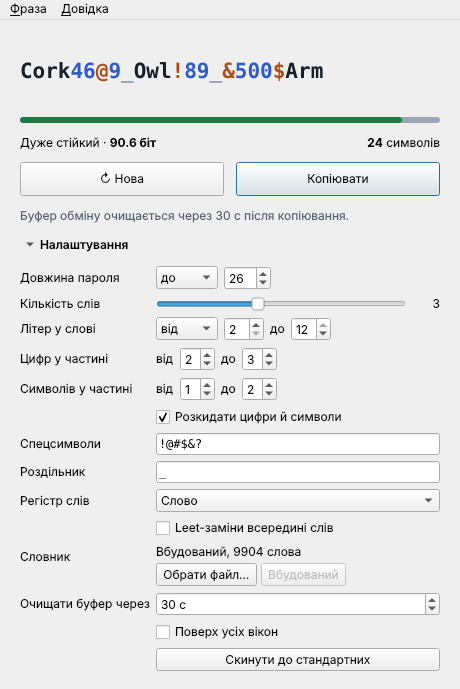
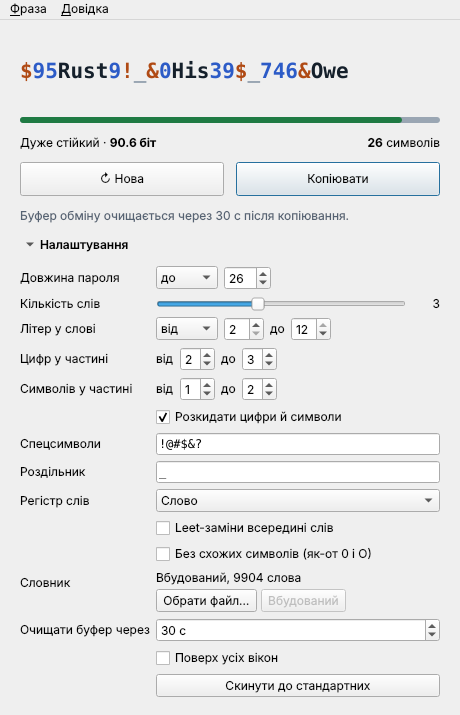
Add "avoid similar characters" option
Config.avoid_similar removes digits 0 and 1, the symbol |, and the leet
substitutions o->0 and i->1, and never shows a capital I where a
lowercase l can appear: words starting with "i" are skipped in
Capitalize mode and Random case never capitalizes an "i". O, o and l
stay, since nothing they could be confused with remains, so the
dictionary barely shrinks. Spelling counts account for the restricted
capital positions, keeping entropy_bits() exact (about -3 bits by
default). A separator containing look-alikes is rejected.

GUI: "Без схожих символів (як-от 0 і O)" checkbox. CLI: --no-similar.
Docs, screenshots and changelog updated; bump to 1.4.0.

diff --git a/src/passgen/core.py b/src/passgen/core.py
@@ -58,6 +58,19 @@ class Case(str, Enum):
 # Заміни взаємно однозначні, тому різні варіанти слова дають різні рядки.
 LEET = {"a": "@", "e": "3", "i": "1", "o": "0", "s": "$", "t": "7"}
 
+# Схожі символи: 0 / O / o та 1 / l / I / |. У режимі avoid_similar вилучаються цифри 0 і 1,
+# символ | і leet-заміни на них, а велика I не з'являється поруч із малою l — тоді жодна
+# пара з цих груп не може зустрітися в паролі одночасно.
+SIMILAR_DIGITS = "01"
+SIMILAR_SYMBOLS = "|"
+SIMILAR_ALL = "0Oo1lI|"
+
+
+def leet_map(avoid_similar: bool) -> dict[str, str]:
+    if not avoid_similar:
+        return LEET
+    return {k: v for k, v in LEET.items() if v not in SIMILAR_DIGITS}
+
 
 @dataclass(frozen=True)
 class Config:
@@ -83,6 +96,8 @@ class Config:
     scatter: bool = True
     # True: внутрішні літери з LEET незалежно, з імовірністю ½, замінюються знаками
     leet: bool = False
+    # True: без схожих символів (0 і O, 1 і l, I і l, |) — див. SIMILAR_ALL
+    avoid_similar: bool = False
 
 
 @dataclass(frozen=True)
@@ -212,23 +227,33 @@ def validate(config: Config) -> None:
         raise ConfigError(f"Роздільник може мати не більше {SEPARATOR_MAX} символів.")
     if any(not ch.isprintable() or ch.isspace() for ch in config.separator):
         raise ConfigError("Роздільник не може містити пробіли чи службові символи.")
+    if config.avoid_similar and set(config.separator) & set(SIMILAR_ALL):
+        raise ConfigError(
+            f"Роздільник містить схожі символи ({' '.join(SIMILAR_ALL)}). "
+            "Виберіть інший роздільник або вимкніть «Без схожих символів»."
+        )
 
 
-def leet_positions(word: str) -> list[int]:
-    """Позиції внутрішніх літер слова, які можна замінити (див. LEET)."""
-    return [i for i in range(1, len(word) - 1) if word[i] in LEET]
+def leet_positions(word: str, mapping: dict[str, str] = LEET) -> list[int]:
+    """Позиції внутрішніх літер слова, які можна замінити."""
+    return [i for i in range(1, len(word) - 1) if word[i] in mapping]
 
 
-def spellings(word: str, case: Case, leet: bool) -> int:
+def capital_positions(word: str, avoid_similar: bool = False) -> list[int]:
+    """Де може стояти велика літера в режимі RANDOM (без «I», якщо уникаємо схожих)."""
+    return [i for i, c in enumerate(word) if not (avoid_similar and c == "i")]
+
+
+def spellings(word: str, case: Case, leet: bool, avoid_similar: bool = False) -> int:
     """Скільки різних написань дає слово з цим регістром і leet-заміною.
 
     Велика літера (у режимі RANDOM) не замінюється, тож якщо вона стоїть на місці,
     придатному для заміни, варіантів leet на один біт менше.
     """
-    m = len(leet_positions(word)) if leet else 0
+    subs = leet_positions(word, leet_map(avoid_similar)) if leet else []
     if case is Case.RANDOM:
-        return (len(word) - m) * 2**m + m * 2 ** max(m - 1, 0)
-    return 2**m
+        return sum(2 ** (len(subs) - (p in subs)) for p in capital_positions(word, avoid_similar))
+    return 2 ** len(subs)
 
 
 def arrangements(nd: int, ns: int, scatter: bool) -> int:
@@ -258,12 +283,24 @@ class Generator:
         validate(config)
         self._randbelow = randbelow
         self._symbols = unique_symbols(config.symbol_set)
+        self._digits = DIGITS
+        self._leet = leet_map(config.avoid_similar)
+        if config.avoid_similar:
+            self._digits = "".join(d for d in DIGITS if d not in SIMILAR_DIGITS)
+            self._symbols = "".join(c for c in self._symbols if c not in SIMILAR_SYMBOLS)
+            if config.symbols_max > 0 and not self._symbols:
+                raise ConfigError(
+                    "Без схожих символів набір спецсимволів порожній. Додайте інші символи."
+                )
 
         words = builtin_words() if words is None else normalize(words)
         if not words:
             raise ConfigError("Словник порожній.")
         self.wordlist_size = len(words)
         words = tuple(w for w in words if config.word_len_min <= len(w) <= config.word_len_max)
+        if config.avoid_similar and config.case is Case.CAPITALIZE:
+            # «Ivy» поруч із малою «l» в інших словах — саме та плутанина I/l
+            words = tuple(w for w in words if w[0] != "i")
         if not words:
             raise ConfigError(f"У словнику немає слів довжиною {word_len_text(config)}.")
         self.word_counts = (
@@ -288,7 +325,7 @@ class Generator:
         # кожне слово рахується стільки разів, скільки має різних написань,
         # і вибирається з такою ж вагою — тож усі написання рівноймовірні
         self._spellings = {
-            n: [spellings(w, config.case, config.leet) for w in ws]
+            n: [spellings(w, config.case, config.leet, config.avoid_similar) for w in ws]
             for n, ws in self._by_len.items()
         }
 
@@ -297,7 +334,9 @@ class Generator:
         for n in self._by_len:
             for nd in range(config.digits_min, config.digits_max + 1):
                 for ns in range(config.symbols_min, config.symbols_max + 1):
-                    count = sum(self._spellings[n]) * len(DIGITS) ** nd * len(self._symbols) ** ns
+                    count = (
+                        sum(self._spellings[n]) * len(self._digits) ** nd * len(self._symbols) ** ns
+                    )
                     if count == 0:
                         continue
                     orders = arrangements(nd, ns, config.scatter)
@@ -398,7 +437,7 @@ class Generator:
         )
         word = self._weighted_choice(list(zip(self._by_len[n], self._spellings[n], strict=True)))
         written = self._spell(word)
-        digits = [self._choice(DIGITS) for _ in range(nd)]
+        digits = [self._choice(self._digits) for _ in range(nd)]
         symbols = [self._choice(self._symbols) for _ in range(ns)]
         if self.config.scatter:
             # кожна цифра й символ — окремий елемент; рівномірна перестановка всіх
@@ -417,17 +456,17 @@ class Generator:
     def _spell(self, word: str) -> str:
         """Рівномірно вибране написання слова серед spellings(word) варіантів."""
         cfg = self.config
-        subs = leet_positions(word) if cfg.leet else []
+        subs = leet_positions(word, self._leet) if cfg.leet else []
         chars = list(cfg.case.apply(word))
         if cfg.case is Case.RANDOM:
             # позиція великої літери з вагою 2^(кількість решти замін)
-            weights = [2 ** (len(subs) - (i in subs)) for i in range(len(word))]
-            cap = self._weighted_choice(list(zip(range(len(word)), weights, strict=True)))
+            caps = capital_positions(word, cfg.avoid_similar)
+            cap = self._weighted_choice([(i, 2 ** (len(subs) - (i in subs))) for i in caps])
             chars[cap] = chars[cap].upper()
             subs = [i for i in subs if i != cap]
         for i in subs:
             if self._randbelow(2):
-                chars[i] = LEET[word[i]]
+                chars[i] = self._leet[word[i]]
         return "".join(chars)
 
     def generate(self) -> Passphrase:

diff --git a/tests/test_core.py b/tests/test_core.py
@@ -544,3 +544,85 @@ def test_random_case_and_leet_add_entropy():
     base = Generator().entropy_bits()
     both = Generator(Config(case=Case.RANDOM, leet=True)).entropy_bits()
     assert both - base > 6
+
+
+# ---------- без схожих символів ----------
+
+
+def no_similar(text):
+    return not set(text) & set("01|") and not ("I" in text and "l" in text)
+
+
+@pytest.mark.parametrize("case", list(Case))
+@pytest.mark.parametrize("leet", [False, True])
+def test_avoid_similar_never_mixes_lookalikes(case, leet):
+    cfg = Config(case=case, leet=leet, avoid_similar=True, symbol_set="!@#$|", max_len=40)
+    gen = Generator(cfg, randbelow=seeded(31))
+    for _ in range(300):
+        text = gen.generate().text
+        assert no_similar(text), text
+
+
+def test_without_option_lookalikes_do_appear():
+    gen = Generator(Config(max_len=40), randbelow=seeded(32))
+    texts = "".join(gen.generate().text for _ in range(300))
+    assert "0" in texts and "1" in texts
+
+
+def test_avoid_similar_spellings():
+    from passgen.core import spellings
+
+    # «silo»: внутрішні i, l; leet i→1 вилучено, велика не на «i» → s, l, o
+    assert spellings("silo", Case.RANDOM, leet=True, avoid_similar=True) == 3
+    assert spellings("silo", Case.RANDOM, leet=True, avoid_similar=False) == 7
+
+
+def test_avoid_similar_is_exact_and_uniform():
+    # 3 написання · 8 цифр · 2 розташування = 48 фраз
+    cfg = Config(
+        words=1,
+        max_len=10,
+        digits_min=1,
+        digits_max=1,
+        symbols_min=0,
+        symbols_max=0,
+        symbol_set="",
+        case=Case.RANDOM,
+        leet=True,
+        avoid_similar=True,
+    )
+    gen = Generator(cfg, ["silo"], randbelow=seeded(33))
+    assert 2 ** gen.entropy_bits() == pytest.approx(48)
+    n = 9600
+    counts = Counter(gen.generate().text for _ in range(n))
+    assert len(counts) == 48
+    assert all(no_similar(t) for t in counts)
+    for c in counts.values():
+        assert c / n == pytest.approx(1 / 48, abs=0.012)
+
+
+def test_avoid_similar_drops_words_starting_with_i_only_when_capitalized():
+    words = ["into", "lit", "ink"]
+    cap = Generator(Config(words=1, max_len=12, avoid_similar=True), words)
+    low = Generator(Config(words=1, max_len=12, avoid_similar=True, case=Case.LOWER), words)
+    assert cap.usable_words == 1
+    assert low.usable_words == 3
+
+
+@pytest.mark.parametrize(
+    ("config", "message"),
+    [
+        (Config(avoid_similar=True, symbol_set="|"), "набір спецсимволів порожній"),
+        (Config(avoid_similar=True, separator="|"), "Роздільник містить схожі символи"),
+        (Config(avoid_similar=True, separator="l"), "Роздільник містить схожі символи"),
+    ],
+)
+def test_avoid_similar_errors(config, message):
+    with pytest.raises(ConfigError, match=message):
+        Generator(config)
+
+
+def test_avoid_similar_costs_a_little_entropy():
+    base = Generator().entropy_bits()
+    avoided = Generator(Config(avoid_similar=True)).entropy_bits()
+    assert 0 < base - avoided < 4

diff --git a/src/passgen/gui/main_window.py b/src/passgen/gui/main_window.py
@@ -229,6 +229,13 @@ class MainWindow(QMainWindow):
             "наприклад Bl@nk3t.\nПерша й остання літери слова не змінюються."
         )
         form.addRow("", self.leet_check)
+        self.similar_check = QCheckBox("Без схожих символів (як-от 0 і O)")
+        self.similar_check.setToolTip(
+            "Цифри нуль і одиниця та символ «|» не використовуються,\n"
+            "а велика «i» не з'являється там, де може бути мала «L».\n"
+            "Leet-заміни o→0 та i→1 теж вимикаються. Пароль легше прочитати й передрукувати."
+        )
+        form.addRow("", self.similar_check)
 
         self.wordlist_label = QLabel()
         self.wordlist_label.setWordWrap(True)
@@ -270,6 +277,7 @@ class MainWindow(QMainWindow):
         self.word_len.changed.connect(self._on_config_changed)
         self.scatter_check.toggled.connect(self._on_config_changed)
         self.leet_check.toggled.connect(self._on_config_changed)
+        self.similar_check.toggled.connect(self._on_config_changed)
         for w in (
             self.words_slider,
             self.digits_min,
@@ -352,6 +360,7 @@ class MainWindow(QMainWindow):
         self.word_len.set_values(c.word_len_min, c.word_len_max)
         self.scatter_check.setChecked(c.scatter)
         self.leet_check.setChecked(c.leet)
+        self.similar_check.setChecked(c.avoid_similar)
         self.digits_min.setValue(c.digits_min)
         self.digits_max.setValue(c.digits_max)
         self.digits_min.setValue(c.digits_min)
@@ -382,6 +391,7 @@ class MainWindow(QMainWindow):
             auto_words=self.length.current_mode() != UPTO,
             scatter=self.scatter_check.isChecked(),
             leet=self.leet_check.isChecked(),
+            avoid_similar=self.similar_check.isChecked(),
             digits_min=self.digits_min.value(),
             digits_max=self.digits_max.value(),
             symbols_min=self.symbols_min.value(),

diff --git a/src/passgen/cli.py b/src/passgen/cli.py
@@ -91,6 +91,11 @@ def build_parser() -> argparse.ArgumentParser:
         action="store_true",
         help="leet-заміни всередині слів: a e i o s t → @ 3 1 0 $ 7",
     )
+    ap.add_argument(
+        "--no-similar",
+        action="store_true",
+        help="без схожих символів: 0 і O, 1 і l, I і l (без цифр 0, 1 і символу |)",
+    )
     ap.add_argument("--wordlist", metavar="FILE", help="власний словник (.txt)")
     ap.add_argument("--plain", action="store_true", help="лише фрази, без таблиці")
     return ap
@@ -120,6 +125,7 @@ def main(argv: list[str] | None = None) -> int:
         case=Case(args.case),
         scatter=not args.grouped,
         leet=args.leet,
+        avoid_similar=args.no_similar,
     )
     try:
         words = load_file(args.wordlist) if args.wordlist else None

diff --git a/tests/test_gui.py b/tests/test_gui.py
@@ -314,3 +314,18 @@ def test_random_case_and_leet_in_gui(window, qtbot):
     qtbot.addWidget(w2)
     assert w2.leet_check.isChecked()
     assert w2.case_combo.currentData() == Case.RANDOM.value
+
+
+def test_avoid_similar_checkbox(window, qtbot):
+    window.similar_check.setChecked(True)
+    assert window.settings.config.avoid_similar
+    for _ in range(30):
+        window.regenerate()
+        text = window.phrase.text
+        assert not set(text) & set("01|") and not ("I" in text and "l" in text)
+    window.separator_edit.setText("l")
+    assert window.phrase is None
+    assert "Роздільник містить схожі символи" in window.config_error.text()
+    w2 = MainWindow(AppSettings(config=window.settings.config))
+    qtbot.addWidget(w2)
+    assert w2.similar_check.isChecked()

diff --git a/tests/test_cli_settings_wordlist.py b/tests/test_cli_settings_wordlist.py
@@ -232,3 +232,16 @@ def test_settings_roundtrip_case_random_leet(tmp_path):
     cfg = Config(case=Case.RANDOM, leet=True)
     settings.save(settings.AppSettings(config=cfg), path)
     assert settings.load(path).config == cfg
+
+
+def test_cli_no_similar(capsys):
+    main(["-n", "50", "--plain", "--no-similar", "--case", "random", "--leet"])
+    for line in capsys.readouterr().out.splitlines():
+        assert not set(line) & set("01|") and not ("I" in line and "l" in line)
+
+
+def test_settings_roundtrip_avoid_similar(tmp_path):
+    path = tmp_path / "s.json"
+    cfg = Config(avoid_similar=True)
+    settings.save(settings.AppSettings(config=cfg), path)
+    assert settings.load(path).config == cfg

diff --git a/src/passgen/__init__.py b/src/passgen/__init__.py
@@ -2,7 +2,7 @@
 
 from passgen.core import Case, Config, ConfigError, Generator, Passphrase
 
-__version__ = "1.3.0"
+__version__ = "1.4.0"
 __author__ = "mykhailoshchavinskyi"
 __email__ = "mykhailo.shchavinskyi@gmail.com"
 __all__ = [

diff --git a/docs/user-guide.md b/docs/user-guide.md
@@ -88,6 +88,7 @@ passgen-cli    # консольний режим
 | Роздільник | `_` | 0–3 символи | Що ставиться між частинами. Може бути порожнім. |
 | Регістр слів | Слово | Слово, слово, СЛОВО, слОво | Як записувати слова. **слОво** — одна велика літера у випадковому місці слова, решта малі; додає близько 5 біт (95.9 замість 90.6). Інші варіанти на стійкість не впливають. |
 | Leet-заміни всередині слів | ні | | Внутрішні літери a e i o s t незалежно, з імовірністю ½, замінюються на @ 3 1 0 $ 7: `Bl@nk3t`, `Dr1v3r`. Перша й остання літери слова не змінюються, тому межі слова завжди видно. Додає близько 3 біт; разом зі «слОво» — близько 8 (98.3 замість 90.6). |
+| Без схожих символів | ні | | У паролі не буде символів, які легко сплутати: цифр **нуль** і **одиниця**, символу `\|`, leet-замін o→0 та i→1. Велика «i» не з'являється там, де можуть бути малі «L»: у режимі «Слово» не беруться слова на «i», у «слОво» велика літера не падає на «i». Літери O, o та l лишаються, бо плутати їх уже нема з чим. Коштує близько 3 біт (87.9 замість 90.6). Роздільник не може містити `0 O o 1 l I \|`. |
 | Словник | Вбудований, 9904 слова | | Див. [Власний словник](#власний-словник). |
 | Очищати буфер через | 30 с | не очищати, 1–300 с | Див. [Буфер обміну](#буфер-обміну). |
 | Поверх усіх вікон | вимкнено | | Вікно Passgen лишається над іншими вікнами. Зручно, коли заповнюєте форму реєстрації. |
@@ -179,6 +180,7 @@ passgen-cli --length 18-24        # від 18 до 24 символів
 passgen-cli --length 24 --words 3 # рівно 24 символи і рівно 3 слова
 passgen-cli --grouped             # цифри й символи лише групами, як у passgen.py
 passgen-cli --case random --leet  # слОво і leet-заміни: dr@W, r3tA1l
+passgen-cli --no-similar          # без 0, 1, | і без пари I та l
 passgen-cli --words 4 --digits 1-2 --symbols 1 --symbol-set '!?' --sep -
 passgen-cli --word-len 5          # кожне слово рівно з 5 літер
 passgen-cli --word-len 4-6        # слова від 4 до 6 літер
@@ -203,6 +205,8 @@ passgen-cli -n 1 --plain          # лише фраза, без таблиці (
 **Не можу зменшити довжину пароля.** Поле не опускається нижче мінімально можливої довжини. Зменште кількість слів, цифр або символів, або вкоротіть роздільник.
 
 **«Пароль довжиною рівно N з цими налаштуваннями неможливий».** Деякі довжини не складаються з доступних частин, особливо коли кількість літер, цифр і символів задано точно. Програма підкаже найближчі можливі довжини. Можна взяти одну з них або розширити діапазони цифр, символів чи літер у слові.
+
+**Пароль доводиться передиктовувати або вводити з екрана іншого пристрою.** Увімкніть «Без схожих символів»: зникнуть нуль і одиниця, а також пара I та l.
 
 **Сайт не приймає якийсь символ.** Залиште в полі «Спецсимволи» лише ті символи, які сайт дозволяє.
 

diff --git a/README.md b/README.md
@@ -10,6 +10,7 @@
 - Можна задати довжину пароля: до N, рівно N або від–до. У двох останніх режимах кількість слів, цифр і символів підбирається автоматично.
 - Цифри й символи можна розкидати по частині (`!Deck4#9`) або ставити групами.
 - Додаткові ускладнення: велика літера у випадковому місці слова (`blAnket`) і leet-заміни всередині слова (`Bl@nk3t`).
+- Режим «без схожих символів»: без 0, 1, `|` і без пари I/l.
 - Можна змінювати кількість слів, кількість літер у слові (рівно N або від–до), кількість цифр і символів, набір спецсимволів, роздільник, регістр і словник.
 - Шкала показує стійкість у бітах.
 - Буфер обміну автоматично очищається, а фраза позначається як секретна для менеджерів буфера.

diff --git a/CHANGELOG.md b/CHANGELOG.md
@@ -1,5 +1,9 @@
 # Зміни
 
+## 1.4.0
+
+- Нова галочка **Без схожих символів**: у паролі немає цифр 0 і 1, символу `|`, leet-замін o→0 та i→1, а велика «I» не стоїть поруч із малою «l». Літери O, o, l лишаються, тож словник майже не зменшується (171 слово на «i» вилучається лише в режимі «Слово»). Коштує близько 3 біт. Консоль: `--no-similar`.
+
 ## 1.3.0
 
 - Новий регістр **слОво**: одна велика літера у випадковому місці слова. Додає близько 5 біт.
